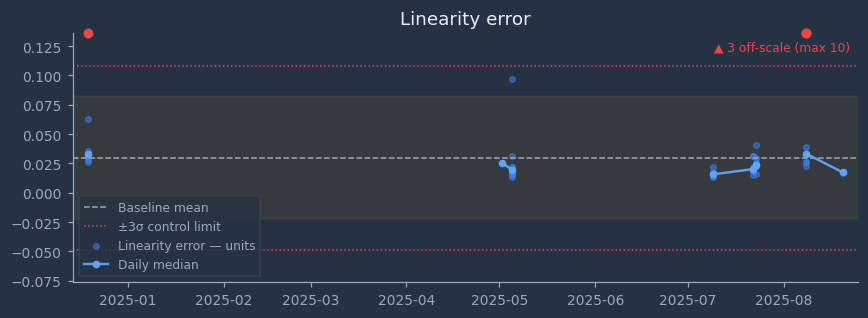
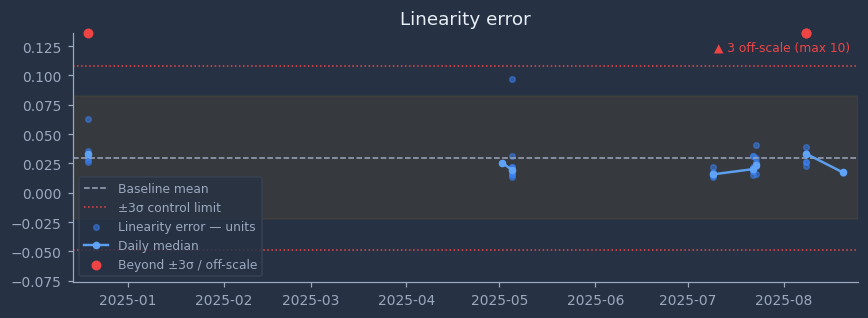
Usability walk fixes: glosses, formats, placeholders, coarsening (live QA)
Walked the running app page-by-page as a user (2026-07-08). Fixes:
- worst_models_list: Gap column explained + 'Gap (pts)' header
- dashboard: weekly auto-coarsens to monthly beyond 2y (disclosed on chart);
  FT panel count reworded
- browse_zone: dot/date/Active legend; search placeholder actually shows
  (CTkEntry drops placeholder when textvariable is bound -> KeyRelease)
- focus_chart: red markers named in legend; humanized annotation numbers
- theme: fmt_measure shared formatter; drift table uses it (no more e+04)
- units_tab: full-word headers, status colored by tier
- trim_ft_tab: numeric serial sort + explicit '+N more'
- unit_chart_modal: date-only title + unit status
- settings: Apply preset (was Save), bordered second retrain button,
  MPS spelled out
- harnesses: 8 usability-gloss checks in app sweep (45 total, 0 FAIL);
  chart harness asserts legend naming + renders coarsened trend
- SESSION_2026-07-08.md item 8

Changed region(s): [[0.0933, 0.566, 0.3111, 0.7358], [0.0933, 0.8208, 0.3111, 0.8491], [0.0933, 0.7642, 0.3111, 0.7925]]

diff --git a/src/laser_trim_analyzer/gui/v6/widgets/browse_zone.py b/src/laser_trim_analyzer/gui/v6/widgets/browse_zone.py
@@ -18,12 +18,24 @@ class BrowseZone(ctk.CTkFrame):
         self._rows: List["_BrowseRow"] = []
         t = theme
         ctk.CTkLabel(self, text="All models", font=t.font(t.SIZE_HEADING, "bold"),
-                     text_color=t.TEXT_PRIMARY, anchor="w").pack(side="top", fill="x", pady=(0, t.SPACE_SM))
-        self._search_var = ctk.StringVar()
-        self._search_var.trace_add("write", lambda *_: self._render())
-        ctk.CTkEntry(self, textvariable=self._search_var, placeholder_text="Search models…",
+                     text_color=t.TEXT_PRIMARY, anchor="w").pack(side="top", fill="x", pady=(0, t.SPACE_XS))
+        # Row anatomy, spelled out (live-walk finding, 2026-07-08: unexplained
+        # colored dots + an unlabeled date column read as decoration).
+        ctk.CTkLabel(self, text=("Dot = drift status: red out-of-control · orange drift · "
+                                 "yellow warning · gray stable/untrained. Date = last processed. "
+                                 "'Active' scope = models with recent data or pinned in "
+                                 "Settings → Active Models."),
+                     font=t.font(t.SIZE_CAPTION), text_color=t.TEXT_SECONDARY,
+                     anchor="w", justify="left", wraplength=1200)\
+            .pack(side="top", fill="x", pady=(0, t.SPACE_SM))
+        # NOTE: no textvariable — CTkEntry silently drops placeholder_text when
+        # a textvariable is attached (the 'mystery empty box' finding). Filter
+        # reacts on KeyRelease instead.
+        self._search_entry = ctk.CTkEntry(self, placeholder_text="Type to filter models…",
                      font=t.font(t.SIZE_BODY), fg_color=t.CARD, border_color=t.BORDER,
-                     text_color=t.TEXT_PRIMARY).pack(side="top", fill="x", pady=(0, t.SPACE_SM))
+                     text_color=t.TEXT_PRIMARY)
+        self._search_entry.pack(side="top", fill="x", pady=(0, t.SPACE_SM))
+        self._search_entry.bind("<KeyRelease>", lambda e: self._render())
         self._cap_label = ctk.CTkLabel(self, text="", font=t.font(t.SIZE_CAPTION),
                                        text_color=t.TEXT_SECONDARY, anchor="w")
         self._cap_label.pack(side="top", fill="x")
@@ -35,13 +47,16 @@ class BrowseZone(ctk.CTkFrame):
         self._render()
 
     def set_filter(self, text: str) -> None:
-        self._search_var.set(text)
+        self._search_entry.delete(0, "end")
+        if text:
+            self._search_entry.insert(0, text)
+        self._render()
 
     def _render(self) -> None:
         for r in self._rows:
             r.destroy()
         self._rows.clear()
-        flt = self._search_var.get().lower()
+        flt = self._search_entry.get().strip().lower()
         matches = [m for m in self._models if not flt or flt in m.model.lower()]
         for m in matches[:ROW_CAP]:
             row = _BrowseRow(self._list, summary=m, theme=self.theme, on_click=self._cb)

diff --git a/scripts/chart_qa_render_all.py b/scripts/chart_qa_render_all.py
@@ -70,6 +70,13 @@ class _Theme:
     RADIUS_SM=6; RADIUS_MD=10; SIZE_CAPTION=11; SIZE_BODY=13
     SIZE_HEADING=15; SIZE_TITLE=18
     def font(self, *a, **k): return None
+    @staticmethod
+    def fmt_measure(v, sig: int = 4) -> str:
+        if v is None: return "—"
+        av = abs(float(v))
+        if av >= 1e7 or (av != 0 and av < 1e-4): return f"{v:.{sig}g}"
+        if av >= 1000: return f"{v:,.0f}"
+        return f"{v:.{sig}g}"
 
 
 def _focus():
@@ -204,15 +211,27 @@ def main(out_dir: str) -> int:
             f"WINDOW-SWITCH REGRESSION: 90d xlim spans {narrow_span:.0f} days "
             f"(data {data_span:.0f}d; previous All render {wide_span:.0f}d) — "
             "x-axis is holding the old window")
+    # Red out-of-limit markers must be NAMED in the legend (unexplained red
+    # dots finding, 2026-07-08). 8340-1/untrimmed_error_max has off-scale
+    # points, so the entry must be present.
+    leg = fc._ax.get_legend()
+    leg_texts = [t_.get_text() for t_ in (leg.get_texts() if leg else [])]
+    if not any("Beyond ±3σ" in t_ for t_ in leg_texts):
+        raise AssertionError(f"legend misses the red-marker entry: {leg_texts}")
     _save(fc, out / "focus_8340-1_window_switch.png", manifest,
-          f"FocusChart window-switch: All(xlim {wide_span:.0f}d) -> 90d(xlim {narrow_span:.0f}d) — axis tracks the window")
+          f"FocusChart window-switch: All(xlim {wide_span:.0f}d) -> 90d(xlim {narrow_span:.0f}d) — axis tracks the window; red markers in legend")
 
     # ---- 2. Company trend ----
     for days, period in [(90, "week"), (365, "month"), (36500, "month"), (30, "week")]:
         cc = _company()
-        cc.set_data(db.get_company_yield_trend(days_back=days, period=period), period)
+        # All-time + weekly is auto-coarsened by the Dashboard; render the
+        # coarsened form WITH its disclosure note (2026-07-08).
+        note = ("shown monthly — weekly is too dense for this window"
+                if days > 730 else None)
+        cc.set_data(db.get_company_yield_trend(days_back=days, period=period), period, note=note)
         _save(cc, out / f"company_{days}d_{period}.png", manifest,
-              f"CompanyTrend {days}d/{period} — linearity basis, partial marker, vintage")
+              f"CompanyTrend {days}d/{period} — linearity basis, partial marker, vintage"
+              + (", coarsen note" if note else ""))
 
     # ---- 3. Mini trends ----
     from laser_trim_analyzer.core.yield_stats import compute_yield

diff --git a/src/laser_trim_analyzer/gui/v6/pages/dashboard_page.py b/src/laser_trim_analyzer/gui/v6/pages/dashboard_page.py
@@ -93,20 +93,30 @@ class DashboardPage(PageBase):
             empty = {"passed": 0, "warnings": 0, "failed": 0, "errors": 0, "untrimmed": 0,
                      "gradeable": 0, "total": 0, "pass_rate": None, "trend": []}
             trim, ft, worst, total = dict(empty), dict(empty), [], 0
+        # Weekly buckets over the 'All' window = 600+ points smeared into an
+        # unreadable block (live-walk finding, 2026-07-08). Coarsen to monthly
+        # when the window is too long for weeks, and SAY so on the chart.
+        days_back = _WINDOW_DAYS.get(self._window_choice, 90)
+        period = _TREND_PERIODS.get(self._trend_period_choice, "week")
+        trend_note = None
+        if period == "week" and days_back > 730:
+            period = "month"
+            trend_note = "shown monthly — weekly is too dense for this window"
         try:
             company_trend = self.app.db.get_company_yield_trend(
-                days_back=_WINDOW_DAYS.get(self._window_choice, 90),
-                period=_TREND_PERIODS.get(self._trend_period_choice, "week"))
+                days_back=days_back, period=period)
         except Exception:
             company_trend = None
-        return trim, ft, worst, total, company_trend
+        return trim, ft, worst, total, company_trend, period, trend_note
 
-    def _apply(self, trim, ft, worst, total, company_trend=None):
+    def _apply(self, trim, ft, worst, total, company_trend=None,
+               period="week", trend_note=None):
         self._trim_panel.set_yield(trim, total_label=f"{trim['total']} units")
-        self._ft_panel.set_yield(ft, total_label=f"{ft['total']} matched")
+        self._ft_panel.set_yield(
+            ft, total_label=f"{ft['total']} final-test records (matched to trims)")
         try:
             self._company_trend.set_data(
-                company_trend, period_label=_TREND_PERIODS.get(self._trend_period_choice, "week"))
+                company_trend, period_label=period, note=trend_note)
         except Exception:
             # Isolate the trend from the rest of the dashboard, but NEVER
             # silently (a swallowed error rendered as a blank chart).

diff --git a/src/laser_trim_analyzer/gui/v6/widgets/company_trend_chart.py b/src/laser_trim_analyzer/gui/v6/widgets/company_trend_chart.py
@@ -46,12 +46,13 @@ class CompanyTrendChart(ctk.CTkFrame):
         self._vol_ax.tick_params(colors=t.TEXT_DISABLED, labelsize=8)
         self._ax.title.set_color(t.TEXT_PRIMARY)
 
-    def set_data(self, trend: Optional[Dict[str, Any]], period_label: str = "week") -> None:
+    def set_data(self, trend: Optional[Dict[str, Any]], period_label: str = "week",
+                 note: Optional[str] = None) -> None:
         """Render the trend. NEVER fails blank: any internal error draws a
         visible message in the axes (a swallowed exception once left bare
         0-1 axes with no explanation — worse than an error)."""
         try:
-            self._set_data(trend, period_label)
+            self._set_data(trend, period_label, note=note)
         except Exception as exc:
             import logging
             logging.getLogger(__name__).exception("Company trend render failed")
@@ -67,7 +68,8 @@ class CompanyTrendChart(ctk.CTkFrame):
             except Exception:
                 pass
 
-    def _set_data(self, trend: Optional[Dict[str, Any]], period_label: str = "week") -> None:
+    def _set_data(self, trend: Optional[Dict[str, Any]], period_label: str = "week",
+                  note: Optional[str] = None) -> None:
         t = self.theme
         ax, vol = self._ax, self._vol_ax
         ax.clear()
@@ -134,6 +136,12 @@ class CompanyTrendChart(ctk.CTkFrame):
             ax.text(0.995, 1.02, f"Data through {data_through:%Y-%m-%d}",
                     transform=ax.transAxes, ha="right", va="bottom",
                     fontsize=7.5, color=t.TEXT_SECONDARY)
+        # Aggregation override disclosure (e.g. weekly coarsened to monthly for
+        # an all-time window) — the toggle no longer matches what's drawn, so
+        # the chart must say why.
+        if note:
+            ax.text(0.01, 0.03, note, transform=ax.transAxes, ha="left",
+                    va="bottom", fontsize=7.5, color=t.TIER_WARNING)
 
         # Y window: show the informative band, not always 0-100.
         rates = [r["linearity_yield"] for r in company if r["linearity_yield"] is not None]

diff --git a/src/laser_trim_analyzer/gui/v6/widgets/trim_ft_tab.py b/src/laser_trim_analyzer/gui/v6/widgets/trim_ft_tab.py
@@ -50,14 +50,22 @@ class TrimFtTab(ctk.CTkScrollableFrame):
             self._kv("Overkills — failed trim but passed final test", str(d["overkills"]),
                      color=t.TIER_WARNING if d["overkills"] else None)
             self._kv("Agreement", f"{pct(d['agreement_rate'])}   ({d['agreements']}/{d['linked']})")
+            def _serials(units, cap=25):
+                # Numeric-aware sort (string sort gave '1, 10, 102, 13, 130' —
+                # live-walk finding, 2026-07-08) and an EXPLICIT '+N more'
+                # instead of a truncated list trailing off mid-comma.
+                uniq = sorted(set(str(u) for u in units),
+                              key=lambda x: (not x.isdigit(), int(x) if x.isdigit() else 0, x))
+                shown = ", ".join(uniq[:cap])
+                if len(uniq) > cap:
+                    shown += f"  (+{len(uniq) - cap} more — see the evidence pack export)"
+                return shown
             if d["escape_units"]:
-                uniq = sorted(set(str(s) for s in d["escape_units"]))
-                shown = ", ".join(uniq[:30]) + (" …" if len(uniq) > 30 else "")
-                self._line(f"Escaped serials (passed trim, failed FT): {shown}", t.TIER_OOC)
+                self._line("Escaped serials (passed trim, failed FT): "
+                           f"{_serials(d['escape_units'])}", t.TIER_OOC)
             if d["overkill_units"]:
-                uniq = sorted(set(str(s) for s in d["overkill_units"]))
-                shown = ", ".join(uniq[:30]) + (" …" if len(uniq) > 30 else "")
-                self._line(f"Overkill serials (failed trim, passed FT): {shown}", t.TIER_WARNING)
+                self._line("Overkill serials (failed trim, passed FT): "
+                           f"{_serials(d['overkill_units'])}", t.TIER_WARNING)
 
         # --- Trim attempts (how many trim passes) ---
         self._header("Trim attempts (how many trim passes per unit)")

diff --git a/src/laser_trim_analyzer/gui/v6/widgets/focus_chart.py b/src/laser_trim_analyzer/gui/v6/widgets/focus_chart.py
@@ -149,8 +149,8 @@ class FocusChart(ctk.CTkFrame):
             ax.set_ylim(lo - pad, hi + pad)
         if limits_off_scale is not None:
             ax.text(0.01, 0.97,
-                    f"±3σ control limits off-scale ({limits_off_scale[0]:.3g} … "
-                    f"{limits_off_scale[1]:.3g}) — baseline spans mixed history",
+                    f"±3σ control limits off-scale ({t.fmt_measure(limits_off_scale[0], 3)} … "
+                    f"{t.fmt_measure(limits_off_scale[1], 3)}) — baseline spans mixed history",
                     transform=ax.transAxes, ha="left", va="top", fontsize=7.5,
                     color=t.TIER_WARNING)
 
@@ -189,12 +189,17 @@ class FocusChart(ctk.CTkFrame):
                 ox.append(d); oy.append(cy)
         mark_color = t.TIER_OOC if has_limits else t.TIER_WARNING
         if ox:
-            ax.scatter(ox, oy, color=mark_color, s=30, zorder=5, clip_on=False)
+            # Named in the legend — unexplained red dots were the most alarming
+            # thing on the page (live-walk finding, 2026-07-08).
+            mark_label = ("Beyond ±3σ / off-scale" if has_limits
+                          else "Far outside displayed range")
+            ax.scatter(ox, oy, color=mark_color, s=30, zorder=5, clip_on=False,
+                       label=mark_label)
         if off_vals:
             # Name how far the worst excursion actually reaches — a clamped marker
             # alone hides magnitude, which is exactly what a QA reviewer needs.
             ext = max(off_vals, key=abs)
-            ax.text(0.99, 0.97, f"▲ {len(off_vals)} off-scale (max {ext:.3g})",
+            ax.text(0.99, 0.97, f"▲ {len(off_vals)} off-scale (max {t.fmt_measure(ext, 3)})",
                     transform=ax.transAxes, ha="right", va="top", fontsize=8,
                     color=mark_color)
         # ---- Explicit x-window (2026-07-08). Autoscale is LAZY and, on this

diff --git a/scripts/app_qa_sweep.py b/scripts/app_qa_sweep.py
@@ -299,6 +299,33 @@ def main() -> int:
           opts is not None and opts["delete_suspect_quality"] is True
           and opts["delete_before_date"] is not None)
 
+    # ---- usability glosses: every symbol/number the live walk (2026-07-08)
+    # found unexplained must keep its on-screen decoder line -----------------
+    _GLOSSES = [
+        ("src/laser_trim_analyzer/gui/v6/widgets/flagged_cards_zone.py",
+         "σ = standard deviations", "triage cards explain σ"),
+        ("src/laser_trim_analyzer/gui/v6/pages/model_page.py",
+         "σ = standard deviations", "model page explains σ"),
+        ("src/laser_trim_analyzer/gui/v6/widgets/worst_models_list.py",
+         "Gap = Trim − FT", "lowest-yield list explains Gap"),
+        ("src/laser_trim_analyzer/gui/v6/widgets/browse_zone.py",
+         "Dot = drift status", "browse list explains dots/date/Active"),
+        ("src/laser_trim_analyzer/gui/v6/widgets/units_tab.py",
+         '"Sigma gradient"', "units table headers are full words"),
+        ("src/laser_trim_analyzer/gui/v6/widgets/units_tab.py",
+         '"Linearity error"', "units table headers are full words (2)"),
+        ("src/laser_trim_analyzer/gui/v6/widgets/focus_chart.py",
+         "Beyond ±3σ / off-scale", "focus chart names its red markers"),
+        ("src/laser_trim_analyzer/gui/v6/pages/dashboard_page.py",
+         "matched to trims", "FT panel count says what 'matched' means"),
+    ]
+    for path, needle, what in _GLOSSES:
+        try:
+            ok = needle in open(REPO / path, encoding="utf-8").read()
+        except OSError:
+            ok = False
+        check(f"usability gloss: {what}", ok)
+
     # ---- data quality surface: future-dated records (mislabeled files) ------
     horizon = (datetime.now() + timedelta(days=1)).strftime("%Y-%m-%d %H:%M:%S")
     for table in ("analysis_results", "final_test_results"):

diff --git a/src/laser_trim_analyzer/gui/v6/widgets/worst_models_list.py b/src/laser_trim_analyzer/gui/v6/widgets/worst_models_list.py
@@ -10,7 +10,7 @@ from laser_trim_analyzer.gui.v6.theme import ThemeManager
 # Strongly POSITIVE = passing trim but failing FT — escapes (worse). Ported
 # from V5 Quality Health's ranked table (2026-07-07, feature restoration).
 _COLS = [("model", "Model"), ("units", "Units"), ("trim_rate", "Trim %"),
-         ("ft_rate", "FT %"), ("gap", "Gap")]
+         ("ft_rate", "FT %"), ("gap", "Gap (pts)")]
 
 
 def _fmt(key, value) -> str:
@@ -31,7 +31,15 @@ class WorstModelsList(ctk.CTkFrame):
         self._rows: List["_WorstRow"] = []
         t = theme
         ctk.CTkLabel(self, text="Lowest-yield models", font=t.font(t.SIZE_HEADING, "bold"),
-                     text_color=t.TEXT_PRIMARY, anchor="w").pack(side="top", fill="x", pady=(0, t.SPACE_SM))
+                     text_color=t.TEXT_PRIMARY, anchor="w").pack(side="top", fill="x", pady=(0, t.SPACE_XS))
+        # Column key (live-walk finding, 2026-07-08: 'Gap -62' meant nothing
+        # cold). Same treatment as the sigma gloss: one plain-language line.
+        ctk.CTkLabel(self, text=("Trim % / FT % = linearity yield in the window. "
+                                 "Gap = Trim − FT in points; negative = grading worse at trim "
+                                 "than at final test (overkill pattern). Models with ≥5 units."),
+                     font=t.font(t.SIZE_CAPTION), text_color=t.TEXT_SECONDARY,
+                     anchor="w", justify="left", wraplength=1200)\
+            .pack(side="top", fill="x", pady=(0, t.SPACE_SM))
         header = ctk.CTkFrame(self, fg_color=t.CARD)
         header.pack(side="top", fill="x")
         header.grid_columnconfigure(tuple(range(len(_COLS))), weight=1, uniform="wm")

diff --git a/src/laser_trim_analyzer/gui/v6/widgets/units_tab.py b/src/laser_trim_analyzer/gui/v6/widgets/units_tab.py
@@ -11,7 +11,7 @@ import customtkinter as ctk
 from laser_trim_analyzer.gui.v6.theme import ThemeManager
 
 _COLUMNS = [("serial", "Serial"), ("file_date", "Date"), ("overall_status", "Status"),
-            ("sigma_gradient", "Sigma"), ("linearity_error", "Lin Err")]
+            ("sigma_gradient", "Sigma gradient"), ("linearity_error", "Linearity error")]
 
 
 class UnitsTab(ctk.CTkFrame):
@@ -98,12 +98,18 @@ class _UnitRow(ctk.CTkFrame):
         super().__init__(master, fg_color=theme.SURFACE)
         self.unit = unit
         self._cb = on_click
+        # Status gets tier color so a fail-heavy list reads at a glance
+        # (live-walk finding, 2026-07-08: a column of plain-white 'Fail').
+        _status_color = {"Fail": theme.TIER_OOC, "FAIL": theme.TIER_OOC,
+                         "Warning": theme.TIER_WARNING, "WARNING": theme.TIER_WARNING}
         for key, _ in _COLUMNS:
             v = unit.get(key)
             txt = (v.strftime("%Y-%m-%d") if hasattr(v, "strftime")
                    else f"{v:.4g}" if isinstance(v, float) else str(v) if v is not None else "—")
+            color = _status_color.get(txt, theme.TEXT_PRIMARY) if key == "overall_status" \
+                else theme.TEXT_PRIMARY
             lbl = ctk.CTkLabel(self, text=txt, font=theme.font(theme.SIZE_BODY),
-                               text_color=theme.TEXT_PRIMARY)
+                               text_color=color)
             lbl.pack(side="left", expand=True, fill="x", padx=theme.SPACE_SM, pady=theme.SPACE_XS)
             lbl.bind("<Button-1>", lambda e: self._on_click())
         self.bind("<Button-1>", lambda e: self._on_click())

diff --git a/src/laser_trim_analyzer/gui/v6/sections/alert_thresholds.py b/src/laser_trim_analyzer/gui/v6/sections/alert_thresholds.py
@@ -72,7 +72,7 @@ def build_alert_thresholds_section(parent, theme: ThemeManager, app) -> None:
         ctk.CTkLabel(desc, text=text, font=t.font(t.SIZE_CAPTION),
                      text_color=t.TEXT_SECONDARY, anchor="w").pack(side="top", fill="x")
 
-    save_btn = ctk.CTkButton(parent, text="Save preset", fg_color=t.ACCENT, hover_color=t.ACCENT_HOVER,
+    save_btn = ctk.CTkButton(parent, text="Apply preset", fg_color=t.ACCENT, hover_color=t.ACCENT_HOVER,
                              text_color=t.TEXT_INVERSE, corner_radius=t.RADIUS_SM)
 
     def save():
@@ -84,8 +84,8 @@ def build_alert_thresholds_section(parent, theme: ThemeManager, app) -> None:
             pass
         # Recompute thresholds so Triage reflects the new preset (get_drifting_models ignores its arg).
         threading.Thread(target=lambda: apply_sensitivity_preset(app.db, preset), daemon=True).start()
-        save_btn.configure(text="Saved ✓")
-        save_btn.after(1500, lambda: save_btn.winfo_exists() and save_btn.configure(text="Save preset"))
+        save_btn.configure(text="Applied ✓ (recomputing thresholds…)")
+        save_btn.after(2500, lambda: save_btn.winfo_exists() and save_btn.configure(text="Apply preset"))
 
     save_btn.configure(command=save)
     save_btn.pack(side="top", anchor="w")

diff --git a/src/laser_trim_analyzer/gui/v6/widgets/drift_metrics_tab.py b/src/laser_trim_analyzer/gui/v6/widgets/drift_metrics_tab.py
@@ -47,7 +47,7 @@ class _MetricRow(ctk.CTkFrame):
         self.metric = ms.metric
         self._cb = on_click
         recent_val = recent_override if recent_override is not None else ms.recent_mean
-        recent = f"{recent_val:.4g}" if recent_val is not None else "—"
+        recent = self.theme.fmt_measure(recent_val)
         # Honest shift, verifiable against the Baseline & Recent cells beside it:
         # (recent - baseline) / baseline_std. Replaces the old `magnitude` (CUSUM
         # distance past the limit), which couldn't be reconciled with the numbers shown.
@@ -60,7 +60,7 @@ class _MetricRow(ctk.CTkFrame):
                      else "Slow drift") if ms.alert_type else "—"
         cells = [metric_label(ms.metric), ms.tier.name.replace("_", " ").title(),
                  alert_txt,
-                 f"{ms.baseline_mean:.4g} ± {ms.baseline_std:.4g}", recent, shift_txt]
+                 f"{self.theme.fmt_measure(ms.baseline_mean)} ± {self.theme.fmt_measure(ms.baseline_std)}", recent, shift_txt]
         for i in range(len(cells)):
             self.grid_columnconfigure(i, weight=1, uniform="dm")
         for i, txt in enumerate(cells):

diff --git a/src/laser_trim_analyzer/gui/v6/theme.py b/src/laser_trim_analyzer/gui/v6/theme.py
@@ -69,6 +69,24 @@ class ThemeManager:
             DriftTier.OUT_OF_CONTROL: (self.TIER_OOC_BG, self.TIER_OOC),
         }.get(tier, (self.SURFACE, self.TEXT_PRIMARY))
 
+    @staticmethod
+    def fmt_measure(v, sig: int = 4) -> str:
+        """Human-readable measurement: thousands separators instead of e+04.
+        A QA reader sees 21,270 Ω on the chart axis but '2.127e+04' in the
+        table read as noise (live-walk finding, 2026-07-08). Scientific
+        notation only survives for genuinely extreme magnitudes."""
+        if v is None:
+            return "—"
+        try:
+            av = abs(float(v))
+        except (TypeError, ValueError):
+            return str(v)
+        if av >= 1e7 or (av != 0 and av < 1e-4):
+            return f"{v:.{sig}g}"
+        if av >= 1000:
+            return f"{v:,.0f}"
+        return f"{v:.{sig}g}"
+
     def tier_dot_color(self, tier: DriftTier) -> str:
         """Visible dot color. STABLE → muted gray (NOT SURFACE, else invisible)."""
         if tier == DriftTier.STABLE:
